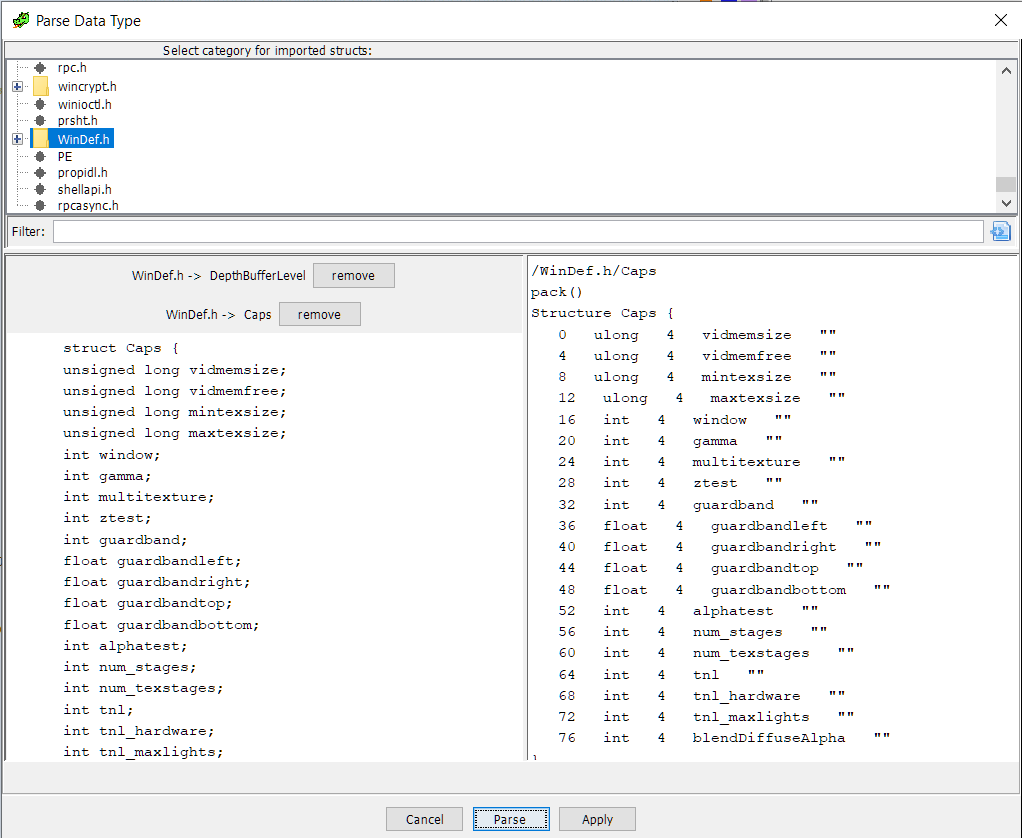
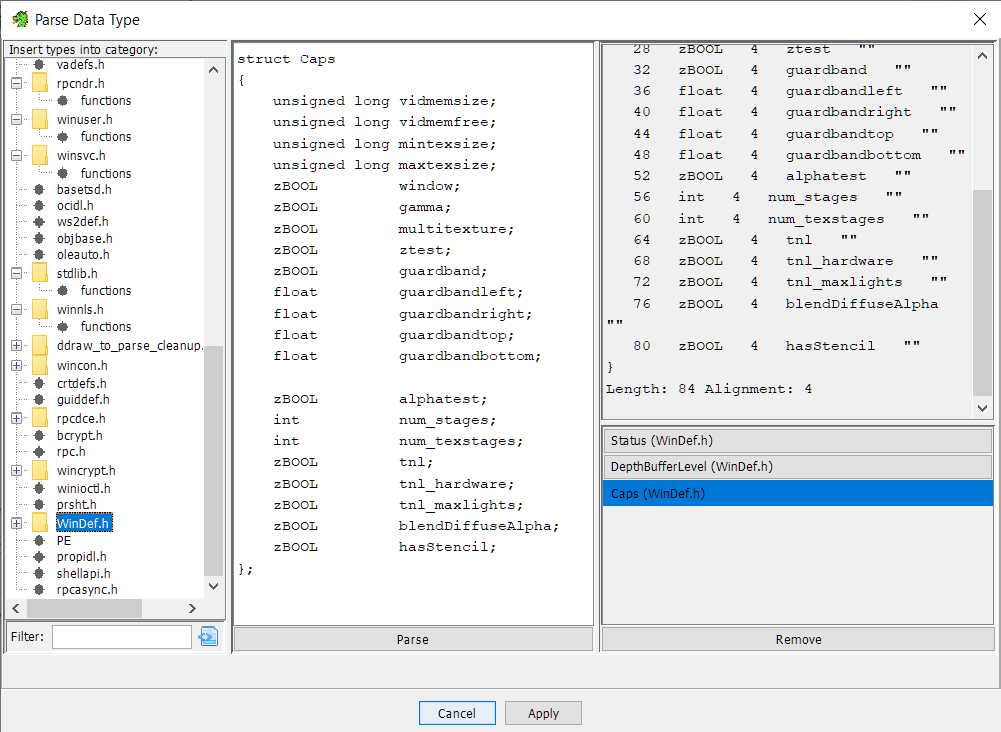
Rework UI

diff --git a/structimporter/ParseStructDialog.java b/structimporter/ParseStructDialog.java
@@ -3,9 +3,12 @@ package structimporter;
 import java.awt.BorderLayout;
 import java.awt.Component;
 import java.awt.Dimension;
+import java.awt.Insets;
+import java.awt.event.ActionEvent;
 import java.util.ArrayList;
 import java.util.HashMap;
 import java.util.List;
+import java.util.Objects;
 
 import javax.swing.BoxLayout;
 import javax.swing.Icon;
@@ -16,6 +19,8 @@ import javax.swing.JPanel;
 import javax.swing.JScrollPane;
 import javax.swing.JSplitPane;
 import javax.swing.JTextArea;
+import javax.swing.SwingConstants;
+import javax.swing.UIManager;
 
 import org.apache.commons.lang3.exception.ExceptionUtils;
 
@@ -65,14 +70,18 @@ public class ParseStructDialog extends DialogComponentProvider {
     private JTextArea typeOutput;
 
     private JButton parseButton;
+    private JButton removeButton;
     
     private List<Runnable> whenShown;
     private NameConflictHandler conflictHandler;
     
+    private JComponent selectedEntry;
+    private DataType selectedType;
+    
 
     public ParseStructDialog(GhidraScript scriptContext) {
         super("Parse Data Type", false, true, true, true);
-        setPreferredSize(600, 500);
+        setPreferredSize(900, 500);
 
         parsedTypes = new ArrayList<>();
         whenShown = new ArrayList<>();
@@ -83,11 +92,6 @@ public class ParseStructDialog extends DialogComponentProvider {
         
         // GUI SETUP
         this.addCancelButton();
-        this.parseButton = new JButton("Parse");
-        this.parseButton.addActionListener(event -> { this.parseType();});
-        this.parseButton.setToolTipText("Parse the struct and preview the result");
-
-        this.addButton(parseButton);
 
         this.addApplyButton();
         this.setApplyToolTip("Add list of parsed types");
@@ -96,11 +100,11 @@ public class ParseStructDialog extends DialogComponentProvider {
         var categorySelectorGui = buildCategorySelectorGui();
         var textInputGui = buildDataTypesGui();
         
-        var splitter = new JSplitPane(JSplitPane.VERTICAL_SPLIT, categorySelectorGui, textInputGui);
+        var splitter = new JSplitPane(JSplitPane.HORIZONTAL_SPLIT, categorySelectorGui, textInputGui);
 
         addWorkPanel(splitter);
         whenShown.add(() -> {
-        	splitter.setDividerLocation(0.3);
+        	splitter.setDividerLocation(0.23);
         });
     }
     
@@ -123,13 +127,14 @@ public class ParseStructDialog extends DialogComponentProvider {
     
     private JComponent buildCategorySelectorGui() {
     	// category tree
-        var label = new JLabel("Select category for imported structs:");
+        var label = new JLabel(" Insert types into category:");
         label.setAlignmentX(Component.LEFT_ALIGNMENT);
     	
         var rootCat = programDtm.getRootCategory();
         var rootNode = buildCatTree(rootCat);
         var tree = new GTree(rootNode);
         tree.addSelectionPath(rootNode.getTreePath());
+        tree.setAlignmentX(Component.LEFT_ALIGNMENT);
         
         this.categoryTree = tree;
         
@@ -150,15 +155,77 @@ public class ParseStructDialog extends DialogComponentProvider {
     }
     
     private JComponent buildDataTypeInputGui() {
-    	var selector = buildDataTypeListGui();
+    	var container = new JPanel(new BorderLayout());
     	
     	textInput = new JTextArea(12, 50);
         textInput.setWrapStyleWord(true);
         textInput.setLineWrap(true);
-    	
-    	var container = new JPanel(new BorderLayout());
-        container.add(selector, BorderLayout.NORTH);
         container.add(new JScrollPane(textInput), BorderLayout.CENTER);
+        
+        this.parseButton = new JButton("Parse");
+        this.parseButton.addActionListener(event -> { this.parseType();});
+        this.parseButton.setToolTipText("Parse the struct and preview the result");
+    	
+        container.add(this.parseButton, BorderLayout.SOUTH);
+        
+        return container;
+    }
+    
+    private void onRemove(ActionEvent e) {
+    	Objects.requireNonNull(selectedType);
+    	Objects.requireNonNull(selectedEntry);
+
+    	var index = parsedTypes.indexOf(selectedType);
+    	
+        parsedTypes.removeIf(t -> t == selectedType);
+        if (parsedTypes.isEmpty()) {
+            this.setApplyEnabled(false);
+        }
+        parsedTypesPanel.remove(selectedEntry);
+        parsedTypesPanel.revalidate();
+
+        selectedEntry = null;
+        selectedType = null;
+        
+        this.removeButton.setVisible(false);
+        typeOutput.setText("");
+        
+        // select item above
+        if (index >= parsedTypes.size()) {
+        	index = parsedTypes.size() - 1;
+        }
+        if (index >= 0 && index < parsedTypes.size()) {
+            var nextEntry = (JButton) parsedTypesPanel.getComponent(index);
+            var nextType = parsedTypes.get(index);
+            selectEntry(nextEntry, nextType);
+        }
+    }
+    
+    private JComponent buildDataTypeInfoGui() {
+    	typeOutput = new JTextArea(12, 50);
+        typeOutput.setWrapStyleWord(true);
+        typeOutput.setLineWrap(true);
+        typeOutput.setEditable(false);
+        typeOutput.setBackground(getBackground());
+    	
+    	var selector = buildDataTypeListGui();
+    	var selectorContainer = new JPanel();
+    	selectorContainer.setLayout(new BoxLayout(selectorContainer, BoxLayout.Y_AXIS));
+    	selectorContainer.add(selector);
+    	
+    	var splitter = new JSplitPane(JSplitPane.VERTICAL_SPLIT,
+    			new JScrollPane(typeOutput), new JScrollPane(selectorContainer));
+        whenShown.add(() -> {
+        	splitter.setDividerLocation(0.5);
+        });
+        
+        var container = new JPanel(new BorderLayout());
+        container.add(splitter, BorderLayout.CENTER);
+        
+        this.removeButton = new JButton("Remove");
+        this.removeButton.setVisible(false);
+        this.removeButton.addActionListener(this::onRemove);
+        container.add(this.removeButton, BorderLayout.SOUTH);
         
         return container;
     }
@@ -167,15 +234,12 @@ public class ParseStructDialog extends DialogComponentProvider {
     	var typeInput = buildDataTypeInputGui();
     	typeInput.setMinimumSize(new Dimension(0, 0));// for splitpane
     	
-        typeOutput = new JTextArea(12, 50);
-        typeOutput.setWrapStyleWord(true);
-        typeOutput.setLineWrap(true);
-        typeOutput.setEditable(false);
-        typeOutput.setMinimumSize(new Dimension(0, 0));// for splitpane
+    	var typeInfo = buildDataTypeInfoGui();
+    	typeInfo.setMinimumSize(new Dimension(0, 0));// for splitpane
 
-        var splitter = new JSplitPane(JSplitPane.HORIZONTAL_SPLIT, typeInput, new JScrollPane(typeOutput));
+        var splitter = new JSplitPane(JSplitPane.HORIZONTAL_SPLIT, typeInput, typeInfo);
         whenShown.add(() -> {
-        	splitter.setDividerLocation(0.5);
+        	splitter.setDividerLocation(0.45);
         });
         return splitter;
     }
@@ -219,35 +283,34 @@ public class ParseStructDialog extends DialogComponentProvider {
         }
     }
     
-    private void createDataTypeListEntry(DataType type) {
-    	var container = new JPanel(new BorderLayout());
-    	
-    	var category = programDtm.getRootCategory().getName() + "/" + type.getCategoryPath().getName();
-    	var label = new JLabel(" " + type.getName() + " (" + category + ")");
-    	var showButton = new JButton("show");
-    	showButton.addActionListener(event -> {
-    		typeOutput.setText(type.toString());
-    	});
-    	var removeButton = new JButton("remove");
-    	removeButton.addActionListener(event -> {
-    		var index = parsedTypes.indexOf(type);
-    		parsedTypes.remove(index);
-    		if (parsedTypes.isEmpty()) {
-    			this.setApplyEnabled(false);
-    		}
-    		parsedTypesPanel.remove(index);
-    		parsedTypesPanel.revalidate();
-    	});
-    	
-    	var buttonContainer = new JPanel(new BorderLayout());
-    	buttonContainer.add(showButton, BorderLayout.WEST);
-    	buttonContainer.add(removeButton, BorderLayout.EAST);
+    private void selectEntry(JButton entryButton, DataType type) {
+        if (selectedEntry != null) {
+        	((JButton) selectedEntry).setBorderPainted(true);
+            selectedEntry.setBackground(null);
+        }
+
+        entryButton.setBorderPainted(false);
+        entryButton.setBackground(UIManager.getColor("Tree.selectionBackground"));
         
-        container.add(label, BorderLayout.CENTER);
-        container.add(buttonContainer, BorderLayout.EAST);
-    	
-    	parsedTypesPanel.add(container);
-    	parsedTypesPanel.revalidate();
+        selectedEntry = entryButton;
+        selectedType = type;
+        typeOutput.setText(type.toString());
+        removeButton.setVisible(true);
+    }
+    
+    private void createDataTypeListEntry(DataType type) {
+    	var category = programDtm.getRootCategory().getName() + "/" + type.getCategoryPath().getName();
+        var button = new JButton(type.getName() + " (" + category + ")");
+        button.setHorizontalAlignment(SwingConstants.LEFT);
+        button.setMargin(new Insets(2, 4, 2, 4));
+        button.setMaximumSize(new Dimension(Integer.MAX_VALUE, button.getPreferredSize().height));// for splitpane
+
+        button.addActionListener(event -> selectEntry(button, type));
+
+        parsedTypesPanel.add(button);
+        parsedTypesPanel.revalidate();
+        
+        selectEntry(button, type);
     }
 
     @Override
